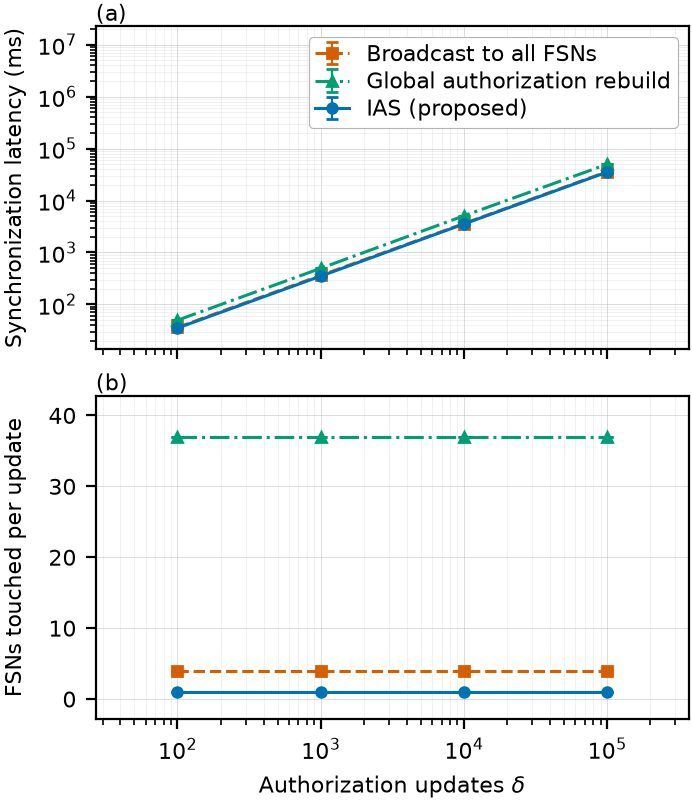
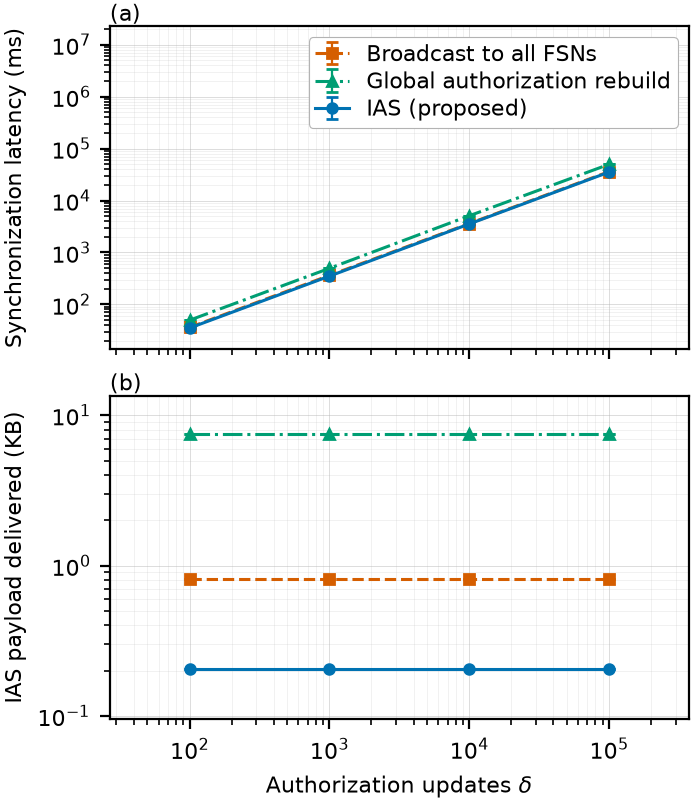
plots(exp6): panel (b) is delivered payload, not a node count
Panel (b) was FSNs touched (1 / 4 / 37). It is now the DELIVERED PAYLOAD --
IAS message size x FSNs touched -- which is 0.204 / 0.816 / 7.55 KB.

Why the change: "4 nodes" is not itself a cost. It becomes one only when
multiplied by what each node is sent, and network load is the quantity the
selective-propagation claim is actually about. Bytes say that directly; a node
count leaves the reader to do the multiplication.

Derived, not re-run. Both factors are already in every results.csv
(secondary_1 = ias_message_size, secondary_2 = fsns_touched), so no experiment
was re-executed and no recorded number changed. PanelSpec gains `derive=(a, b)`
for the elementwise product, with the error propagated as
sqrt((b*sa)^2 + (a*sb)^2) and a point dropped unless BOTH factors have a value
there -- a partially-recorded secondary must not contribute half a product.

Panel (b) is also log now, via a new opt-in PanelSpec.log_y. On a linear axis
full_rebuild's 7.55 KB set the scale and squashed 0.204 against 0.816 -- the
very 4x the panel exists to show -- into the bottom of the frame. Log keeps the
opt-in per panel rather than inheriting the primary's setting, because a
secondary is a different quantity and may be zero or narrow-ranging.

All 9 figures regenerated (pdf + png). Full suite: 600 passed, 1 skipped.

diff --git a/Plots/generate_plots.py b/Plots/generate_plots.py
@@ -58,10 +58,23 @@ class PanelSpec:
 
     ``metric`` indexes the results.csv columns: 0 is ``primary_mean``, 1 is the
     first secondary, 2 the second. ``tag`` is the (a)/(b)/(c) label.
+
+    ``derive`` makes the panel plot the PRODUCT of two recorded metrics instead
+    of one column, as ``(a, b)`` metric indices; ``metric`` is then ignored.
+    Exp. 6 needs it: neither IAS message size nor FSNs touched is the quantity
+    the selective-propagation claim is about -- the delivered payload is their
+    product, and it is derived here rather than added to the runner so no
+    experiment has to be re-run to report it.
     """
     metric: int
     ylabel: str
     tag: str
+    derive: Optional[Tuple[int, int]] = None
+    #: Opt a SECONDARY panel into a log y-axis. Off by default because a
+    #: secondary is a different quantity from the primary and may be zero or
+    #: narrow-ranging; set it only where the panel's own values are positive
+    #: and span enough to flatten on a linear axis.
+    log_y: bool = False
 
 
 @dataclass(frozen=True)
@@ -116,17 +129,26 @@ EXPERIMENTS: Tuple[ExperimentSpec, ...] = (
     # which is exactly what README S5's "selective propagation is the claim"
     # asks the experiment to show.
     #
-    # Panel (b) is FSNs touched: 1 (ias) / 4 (broadcast) / 37 (full_rebuild),
-    # zero variance, already recorded as secondary_2 by every run -- so this
-    # needs no re-run. Section V must state that the selective saving is in
-    # DELIVERY VOLUME, not in sender-side latency, and why: an in-process
-    # harness models no network.
+    # Panel (b) is the DELIVERED PAYLOAD -- IAS message size x FSNs touched,
+    # derived from secondary_1 and secondary_2, which every run already
+    # records, so no re-run was needed. Bytes rather than a node count because
+    # the quantity the selective claim is about is network load, and "4 nodes"
+    # only becomes a cost once it is multiplied by what each node is sent:
+    # 0.204 KB (ias) / 0.816 KB (broadcast) / 7.55 KB (full_rebuild).
+    #
+    # Section V must state that the selective saving is in DELIVERY VOLUME, not
+    # in sender-side latency, and why: an in-process harness models no network.
     ExperimentSpec(6, "exp6_authorization_sync", "fig_exp6_sync.pdf",
                    "Authorization updates $\\delta$", "Synchronization latency (ms)",
                    log_x=True, log_y=True,
                    panels=(
                        PanelSpec(0, "Synchronization latency (ms)", "a"),
-                       PanelSpec(2, "FSNs touched per update", "b"),
+                       # Log, or the 4x that IS the selective claim (0.204 vs
+                       # 0.816 KB) is squashed against the axis by
+                       # full_rebuild's 7.55 KB. On log the three sit evenly
+                       # apart and both gaps read at a glance.
+                       PanelSpec(1, "IAS payload delivered (KB)", "b",
+                                 derive=(1, 2), log_y=True),
                    )),
     ExperimentSpec(7, "exp7_search_throughput", "fig_exp7_throughput.pdf",
                    "Concurrent queries", "Throughput (queries/s)"),
@@ -543,8 +565,29 @@ def _check_log_y_criterion(spec: ExperimentSpec, series_list: Sequence[Series],
         )
 
 
-def _panel_values(series: Series, metric: int) -> Tuple[List[float], List[float]]:
-    """(values, ci95s) for one metric: 0 is primary, 1+ index the secondaries."""
+def _panel_values(
+    series: Series, metric: int,
+    derive: Optional[Tuple[int, int]] = None,
+) -> Tuple[List[float], List[float]]:
+    """(values, ci95s) for one metric: 0 is primary, 1+ index the secondaries.
+
+    With ``derive=(a, b)`` the panel is the elementwise PRODUCT of metrics a and
+    b, with the error propagated as sqrt((b*sa)^2 + (a*sb)^2). A point is
+    dropped unless BOTH factors have a value there, so a partially-recorded
+    secondary cannot silently contribute a half-computed product.
+    """
+    if derive is not None:
+        a_vals, a_errs = _panel_values(series, derive[0])
+        b_vals, b_errs = _panel_values(series, derive[1])
+        if not a_vals or not b_vals:
+            return [], []
+        n = min(len(a_vals), len(b_vals))
+        values = [a_vals[i] * b_vals[i] for i in range(n)]
+        errs = [
+            math.sqrt((b_vals[i] * a_errs[i]) ** 2 + (a_vals[i] * b_errs[i]) ** 2)
+            for i in range(n)
+        ]
+        return values, errs
     if metric == 0:
         return series.y, series.yerr
     return series.extra.get(metric, ([], []))
@@ -571,14 +614,17 @@ def render(spec: ExperimentSpec, series_list: Sequence[Series],
             _draw_panel(
                 ax, spec, series_list, warnings,
                 metric=panel.metric, ylabel=panel.ylabel,
+                derive=panel.derive,
                 # Legend once, on the top panel; warnings once, or each series
                 # would report itself three times.
                 add_legend=(i == 0), collect_warnings=(i == 0),
                 # Only the bottom panel carries the shared x label.
                 add_xlabel=(i == len(spec.panels) - 1),
                 # log_y is declared for the PRIMARY metric; a secondary is a
-                # different quantity and may not be positive or wide-ranging.
-                allow_log_y=(panel.metric == 0),
+                # different quantity and may not be positive or wide-ranging, so
+                # it opts in per panel.
+                allow_log_y=(panel.metric == 0 and panel.derive is None)
+                             or panel.log_y,
             )
             ax.set_title(f"({panel.tag})", loc="left", fontsize=8, pad=2)
         fig.align_ylabels(axes)
@@ -598,7 +644,8 @@ def render(spec: ExperimentSpec, series_list: Sequence[Series],
 def _draw_panel(ax, spec: ExperimentSpec, series_list: Sequence[Series],
                 warnings: List[str], *, metric: int, ylabel: str,
                 add_legend: bool, collect_warnings: bool,
-                add_xlabel: bool, allow_log_y: bool) -> None:
+                add_xlabel: bool, allow_log_y: bool,
+                derive: Optional[Tuple[int, int]] = None) -> None:
     """Draw every series' `metric` onto one axes."""
     # The furthest point any scheme reached, so a shorter series can be marked.
     _all_x = [v for s in series_list for v in s.x]
@@ -624,7 +671,7 @@ def _draw_panel(ax, spec: ExperimentSpec, series_list: Sequence[Series],
         # CAPTION in section V has to state which points are extrapolated --
         # a hollow marker shows a reader that something differs, not what.
         computed = [i for i, n in enumerate(series.n_runs) if n == 0]
-        yvals, yerrs = _panel_values(series, metric)
+        yvals, yerrs = _panel_values(series, metric, derive)
         if not yvals:
             # A scheme that records no such secondary simply has no curve on
             # this panel; the others still draw.
